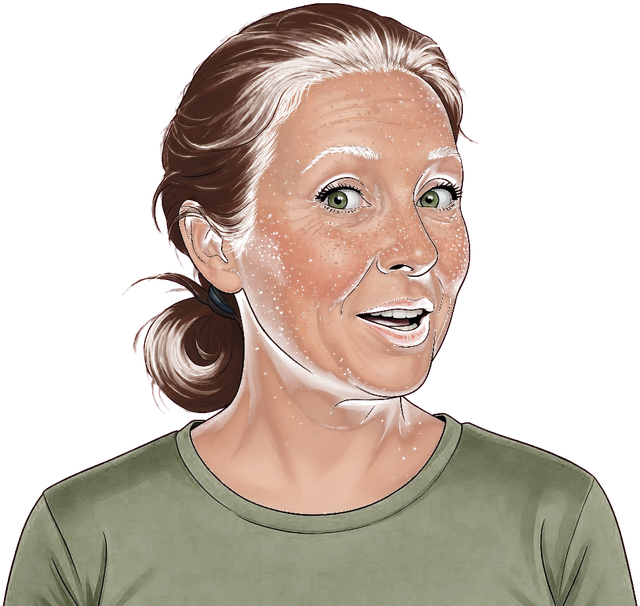
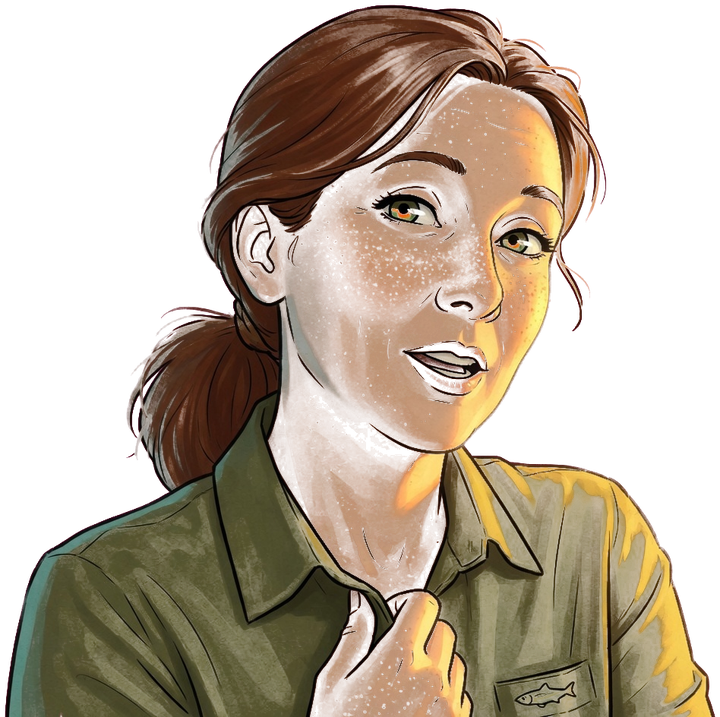
Fish Tank: new aquarium-lit cartoon caretaker portraits.

diff --git a/games/fish-tank/tank.js b/games/fish-tank/tank.js
@@ -2989,7 +2989,7 @@
     if (!box || !perks) return;
     box.innerHTML = Object.keys(KEEPERS).map(function (id) {
       const k = KEEPERS[id];
-      return "<button type='button' class='keeper-card" + (menuKeeper === id ? " on" : "") + "' data-keeper='" + id + "'><img data-keeper='" + id + "' src='./assets/keepers/" + id + ".png' alt='" + k.name + "'><b>" + k.name + "</b><span>" + k.tag + "</span></button>";
+      return "<button type='button' class='keeper-card" + (menuKeeper === id ? " on" : "") + "' data-keeper='" + id + "'><img data-keeper='" + id + "' src='./assets/keepers/" + id + ".png?v=3' alt='" + k.name + "'><b>" + k.name + "</b><span>" + k.tag + "</span></button>";
     }).join("");
     perks.innerHTML = PERKS.map(function (p) {
       const on = menuPerks.indexOf(p.id) >= 0;
@@ -3001,7 +3001,7 @@
       return p ? "<li><b>" + p.name + "</b> — " + p.text + "</li>" : "";
     }).join("");
     if (sheet) {
-      sheet.innerHTML = "<img class='keeper-face' data-keeper='" + face.id + "' src='./assets/keepers/" + face.id + ".png' alt='" + face.name + "'>" +
+      sheet.innerHTML = "<img class='keeper-face' data-keeper='" + face.id + "' src='./assets/keepers/" + face.id + ".png?v=3' alt='" + face.name + "'>" +
         "<div><p class='rpg-tag'>" + face.tag + "</p><h2>" + face.name + "</h2>" +
         "<p class='char-bio'>" + face.bio + "</p>" +
         "<ul class='rpg-gifts'>" + (gifts || "<li>No gifts yet. Choose three below.</li>") + "</ul></div>";
@@ -3013,7 +3013,7 @@
     const bubble = document.getElementById("keeperBubble");
     const talking = bubble && !bubble.classList.contains("hidden");
     const beat = talking ? (Math.floor(now / 170) % 2 === 1) : (Math.floor(now / 420) % 8 === 0);
-    return "./assets/keepers/" + id + (beat ? "_talk.png" : ".png");
+    return "./assets/keepers/" + id + (beat ? "_talk.png?v=3" : ".png?v=3");
   }
   function keeperAnim(now) {
     const liveId = (playing && state) ? keeperInfo().id : menuKeeper;

diff --git a/games/fish-tank/index.html b/games/fish-tank/index.html
@@ -271,6 +271,6 @@
 </div>
 <script src="/games/arcade-ledger.js?v=4"></script>
 <script src="./radio.js?v=1"></script>
-<script src="./tank.js?v=36"></script>
+<script src="./tank.js?v=37"></script>
 </body>
 </html>
